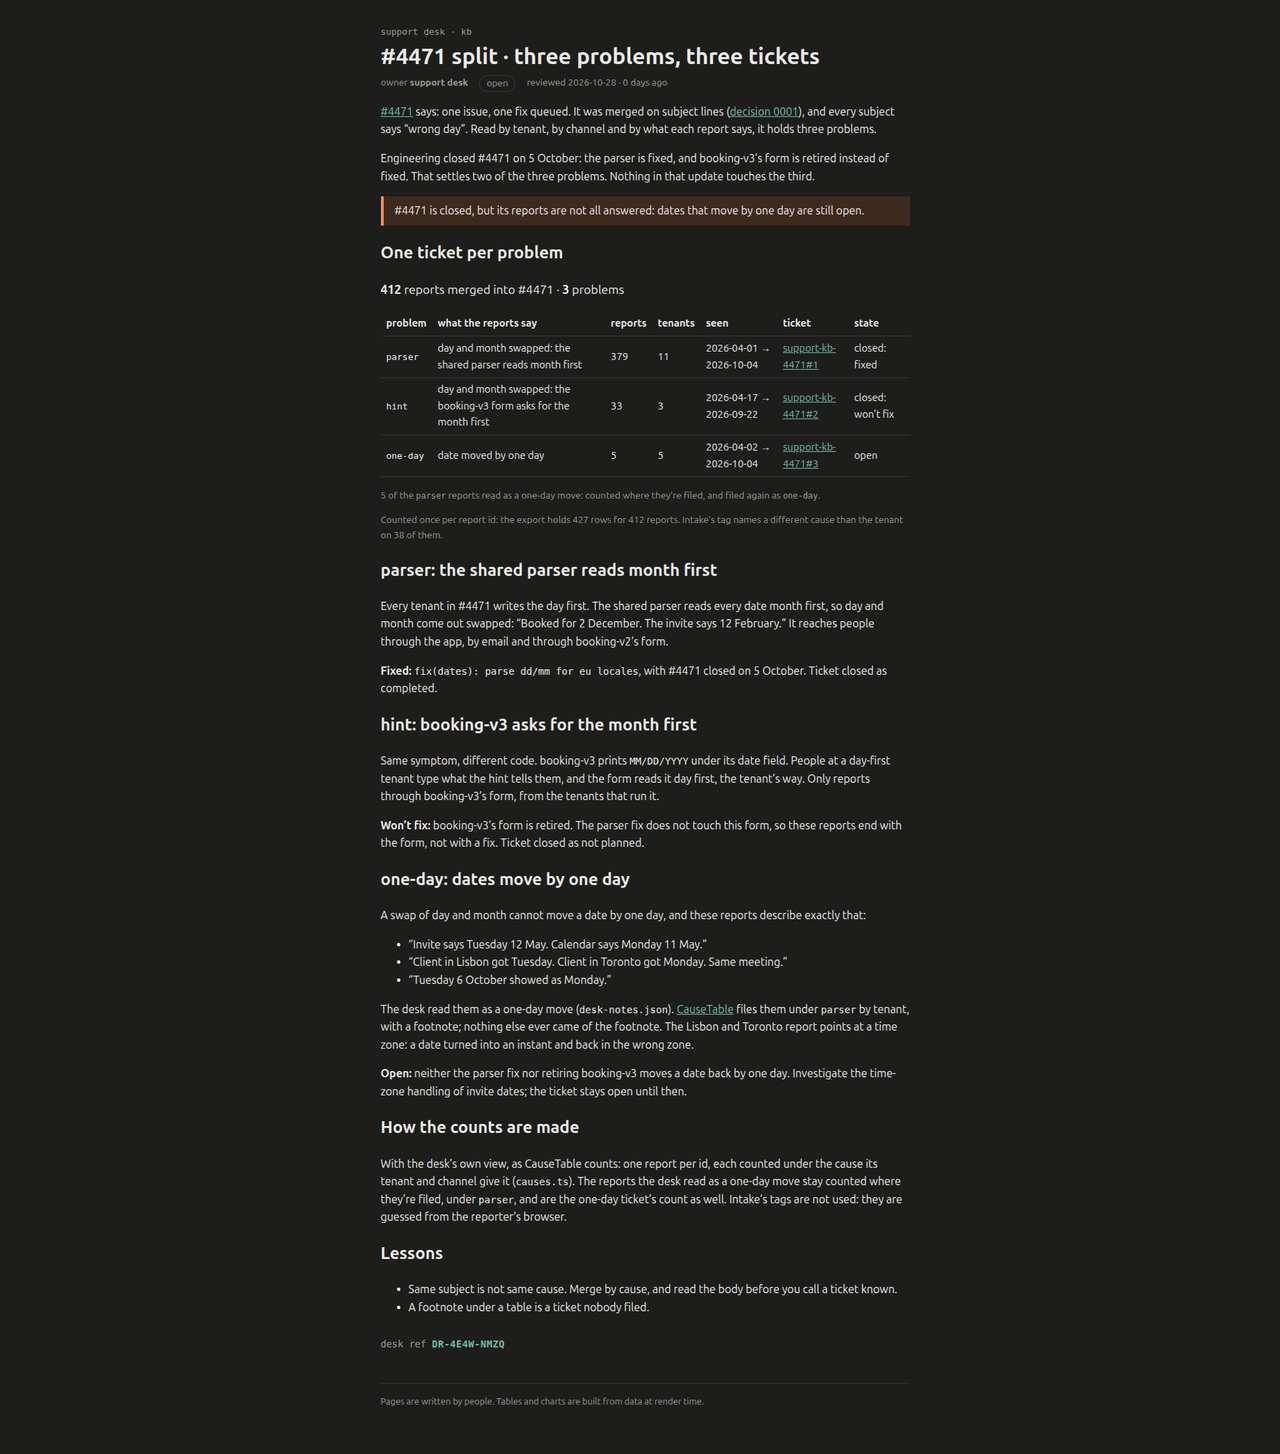
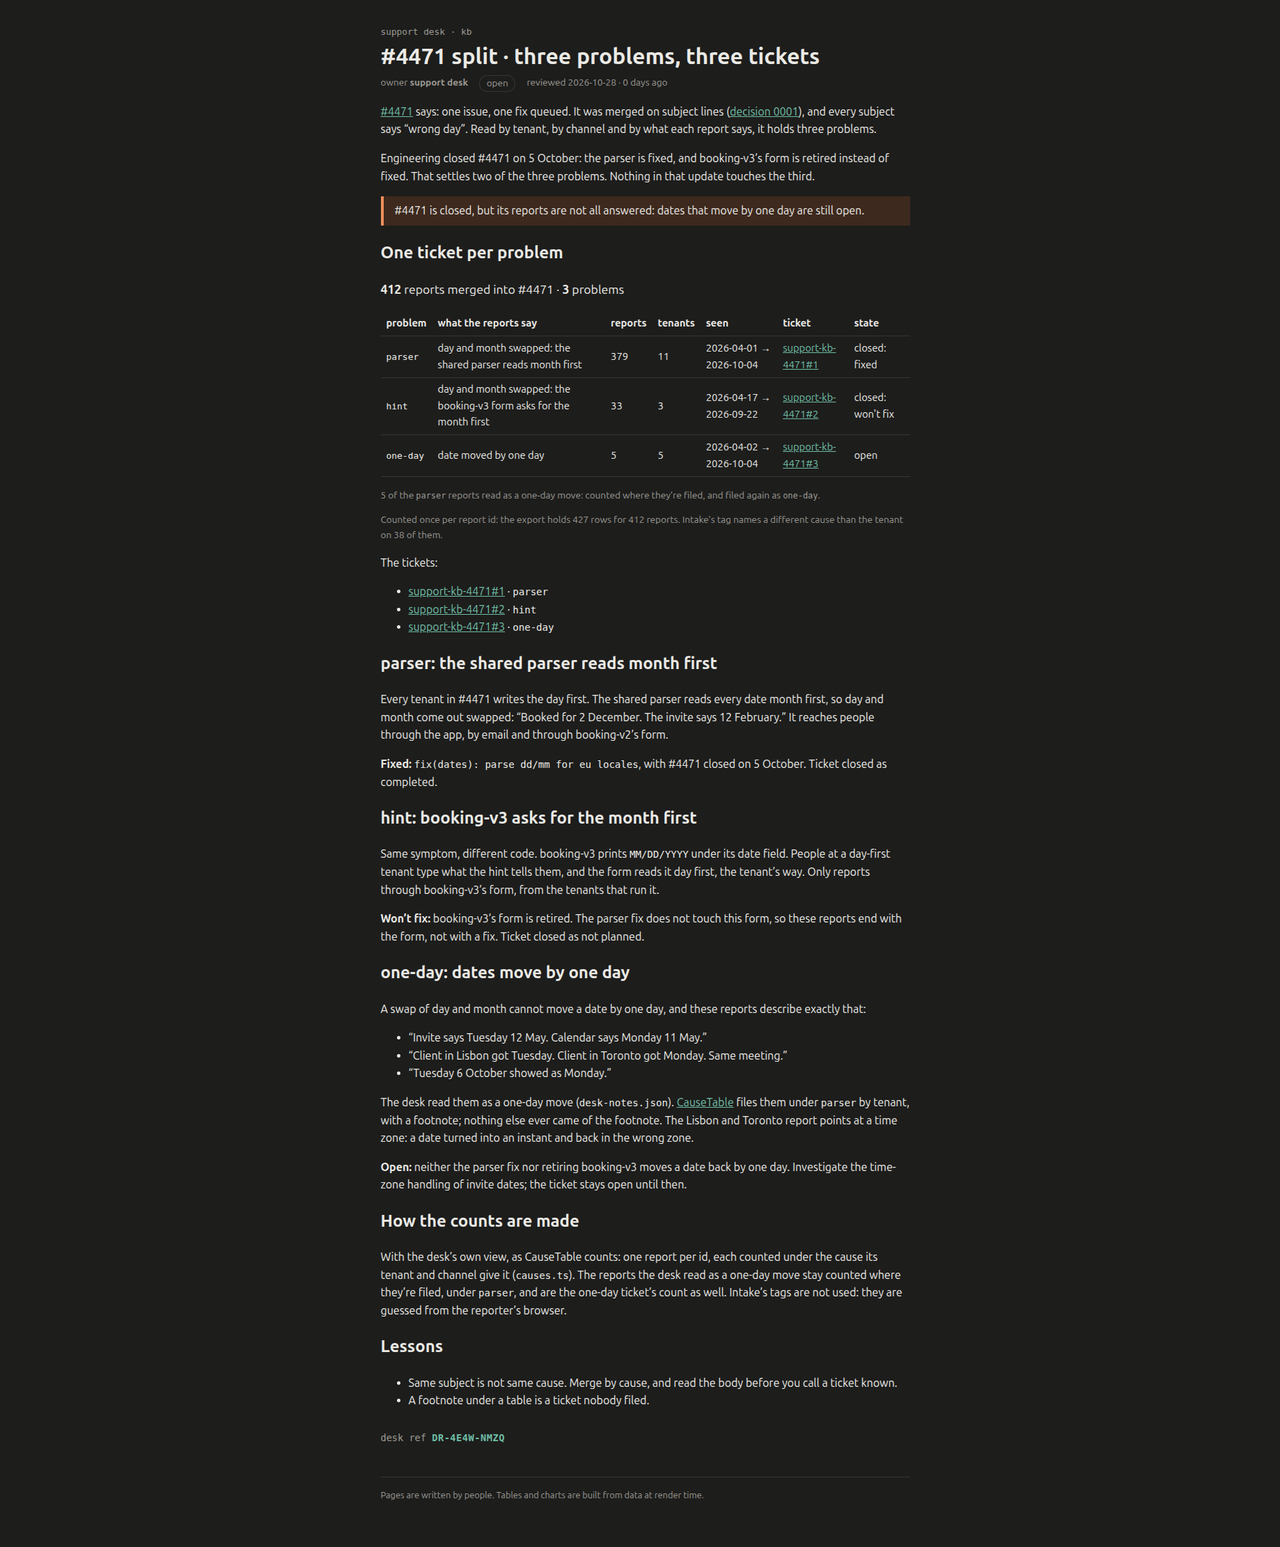
kb: #4471 split page links its three tickets in full

Changed region(s): [[0.2791, 0.0311, 0.7133, 0.9339]]

diff --git a/rendered/site/_app/immutable/chunks/Dhpe4FuT.js b/rendered/site/_app/immutable/chunks/Dhpe4FuT.js
@@ -2,7 +2,7 @@ import{t as e}from"./DK3Fl9T5.js";import{E as t,F as n,H as r,I as i,K as a,L as
   a different cause than the tenant on ${_(R)??``} of them.`)}),S(e,U),f()}var L=`0123456789ABCDEFGHJKMNPQRSTVWXYZ`;function R(e,t){let n=t>>>0;for(let t=0;t<e.length;t++)n^=e.charCodeAt(t),n=Math.imul(n,16777619)>>>0;return n}function z(e){let t=e.trim(),n=R(t,2166136261),r=R(t,2654435769),i=BigInt(n)<<8n|BigInt(r&255),a=``;for(let e=0;e<8;e++)a=L[Number(i&31n)]+a,i>>=5n;return`DR-${a.slice(0,4)}-${a.slice(4)}`}var B=t(`<p class="stamp svelte-1280m42">desk ref <b class="svelte-1280m42"> </b></p>`),V=t(`<p class="stamp missing svelte-1280m42">no desk ref: this page isn't signed (no <code>signature</code> in its frontmatter)</p>`);function H(e,t){p(t,!0);let a=r(()=>t.signature?z(t.signature):null);var c=d(),h=i(c),g=e=>{var t=B(),r=l(n(t)),i=o(r,!0);y(t),s(()=>u(i,_(a))),S(e,t)},v=e=>{var t=V();S(e,t)};m(h,e=>{_(a)?e(g):e(v,-1)}),S(e,c),f()}var U=e({default:()=>Q,metadata:()=>W}),W={layout:`runbook`,title:`#4471 split · three problems, three tickets`,owner:`support desk`,status:`open`,reviewed:`2026-10-28T00:00:00.000Z`,signature:`Wojciech Czaplejewicz (yazon), with Claude Code`},{layout:G,title:K,owner:q,status:J,reviewed:Y,signature:X}=W,Z=t(`<p><a href="/kb/incidents/4471">#4471</a> says: one issue, one fix queued. It was merged on subject lines
 (<a href="/kb/decisions/0001-dedupe-by-subject">decision 0001</a>), and every subject says “wrong day”. Read by
 tenant, by channel and by what each report says, it holds three problems.</p> <p>Engineering closed #4471 on 5 October: the parser is fixed, and booking-v3’s form is retired instead
-of fixed. That settles two of the three problems. Nothing in that update touches the third.</p> <!> <h2>One ticket per problem</h2> <!> <h2>parser: the shared parser reads month first</h2> <p>Every tenant in #4471 writes the day first. The shared parser reads every date month first, so day
+of fixed. That settles two of the three problems. Nothing in that update touches the third.</p> <!> <h2>One ticket per problem</h2> <!> <p>The tickets:</p> <ul><li><a href="https://github.com/yazon/support-kb-4471/issues/1" rel="nofollow">support-kb-4471#1</a> · <code>parser</code></li> <li><a href="https://github.com/yazon/support-kb-4471/issues/2" rel="nofollow">support-kb-4471#2</a> · <code>hint</code></li> <li><a href="https://github.com/yazon/support-kb-4471/issues/3" rel="nofollow">support-kb-4471#3</a> · <code>one-day</code></li></ul> <h2>parser: the shared parser reads month first</h2> <p>Every tenant in #4471 writes the day first. The shared parser reads every date month first, so day
 and month come out swapped: “Booked for 2 December. The invite says 12 February.” It reaches people
 through the app, by email and through booking-v2’s form.</p> <p><strong>Fixed:</strong> <code>fix(dates): parse dd/mm for eu locales</code>, with #4471 closed on 5 October. Ticket closed as
 completed.</p> <h2>hint: booking-v3 asks for the month first</h2> <p>Same symptom, different code. booking-v3 prints <code>MM/DD/YYYY</code> under its date field. People at a
@@ -14,4 +14,4 @@ Toronto report points at a time zone: a date turned into an instant and back in 
 time-zone handling of invite dates; the ticket stays open until then.</p> <h2>How the counts are made</h2> <p>With the desk’s own view, as CauseTable counts: one report per id, each counted under the cause its
 tenant and channel give it (<code>causes.ts</code>). The reports the desk read as a one-day move stay counted
 where they’re filed, under <code>parser</code>, and are the one-day ticket’s count as well. Intake’s tags are not
-used: they are guessed from the reporter’s browser.</p> <h2>Lessons</h2> <ul><li>Same subject is not same cause. Merge by cause, and read the body before you call a ticket known.</li> <li>A footnote under a table is a ticket nobody filed.</li></ul> <!>`,1);function Q(e,t){let n=x(t,[`children`,`$$slots`,`$$events`,`$$legacy`]),r=`https://github.com/yazon/support-kb-4471/issues`,o={parser:`${r}/1`,hint:`${r}/2`,"one-day":`${r}/3`},s={parser:`closed: fixed`,hint:`closed: won't fix`,"one-day":`open`};C(e,b(()=>n,()=>W,{children:(e,t)=>{var n=Z(),r=l(i(n),4);j(r,{kind:`warn`,children:(e,t)=>{a();var n=c(`#4471 is closed, but its reports are not all answered: dates that move by one day are still open.`);S(e,n)},$$slots:{default:!0}});var u=l(r,4);I(u,{ticket:4471,get tickets(){return o},get states(){return s}}),H(l(u,32),{get signature(){return X}}),S(e,n)},$$slots:{default:!0}}))}export{Q as n,U as t};
+used: they are guessed from the reporter’s browser.</p> <h2>Lessons</h2> <ul><li>Same subject is not same cause. Merge by cause, and read the body before you call a ticket known.</li> <li>A footnote under a table is a ticket nobody filed.</li></ul> <!>`,1);function Q(e,t){let n=x(t,[`children`,`$$slots`,`$$events`,`$$legacy`]),r={parser:`https://github.com/yazon/support-kb-4471/issues/1`,hint:`https://github.com/yazon/support-kb-4471/issues/2`,"one-day":`https://github.com/yazon/support-kb-4471/issues/3`},o={parser:`closed: fixed`,hint:`closed: won't fix`,"one-day":`open`};C(e,b(()=>n,()=>W,{children:(e,t)=>{var n=Z(),s=l(i(n),4);j(s,{kind:`warn`,children:(e,t)=>{a();var n=c(`#4471 is closed, but its reports are not all answered: dates that move by one day are still open.`);S(e,n)},$$slots:{default:!0}});var u=l(s,4);I(u,{ticket:4471,get tickets(){return r},get states(){return o}}),H(l(u,36),{get signature(){return X}}),S(e,n)},$$slots:{default:!0}}))}export{Q as n,U as t};

diff --git a/rendered/site/kb/incidents/4471/split.html b/rendered/site/kb/incidents/4471/split.html
@@ -9,11 +9,11 @@
 		<link href="../../../_app/immutable/chunks/B2Ul7l_u.js" rel="modulepreload">
 		<link href="../../../_app/immutable/chunks/BCPXOG7W.js" rel="modulepreload">
 		<link href="../../../_app/immutable/chunks/Dh1V97Jm.js" rel="modulepreload">
-		<link href="../../../_app/immutable/entry/app.BPf66j0r.js" rel="modulepreload">
+		<link href="../../../_app/immutable/entry/app.C8ZodgXy.js" rel="modulepreload">
 		<link href="../../../_app/immutable/nodes/0.C9KfiiPz.js" rel="modulepreload">
 		<link href="../../../_app/immutable/chunks/DK3Fl9T5.js" rel="modulepreload">
-		<link href="../../../_app/immutable/nodes/5.DHk1eGA7.js" rel="modulepreload">
-		<link href="../../../_app/immutable/chunks/DvTG5Ace.js" rel="modulepreload">
+		<link href="../../../_app/immutable/nodes/5.D8P8BH3-.js" rel="modulepreload">
+		<link href="../../../_app/immutable/chunks/Dhpe4FuT.js" rel="modulepreload">
 		<link href="../../../_app/immutable/chunks/BTPwLomz.js" rel="modulepreload">
 		<link href="../../../_app/immutable/chunks/CVBzP17p.js" rel="modulepreload">
 		<link href="../../../_app/immutable/chunks/BIy4WKJS.js" rel="modulepreload">
@@ -27,7 +27,7 @@
 (<a href="/kb/decisions/0001-dedupe-by-subject">decision 0001</a>), and every subject says “wrong day”. Read by
 tenant, by channel and by what each report says, it holds three problems.</p> <p>Engineering closed #4471 on 5 October: the parser is fixed, and booking-v3’s form is retired instead
 of fixed. That settles two of the three problems. Nothing in that update touches the third.</p> <aside class="warn svelte-17bri61"><!---->#4471 is closed, but its reports are not all answered: dates that move by one day are still open.<!----></aside><!----> <h2>One ticket per problem</h2> <p class="sum svelte-1op6c6"><strong>412</strong> reports merged into #4471 · <strong>3</strong> problems</p> <table><thead><tr><th>problem</th><th>what the reports say</th><th>reports</th><th>tenants</th><th>seen</th><th>ticket</th><th>state</th></tr></thead><tbody><!--[--><tr><td><code>parser</code></td><td>day and month swapped: the shared parser reads month first</td><td>379</td><td>11</td><td>2026-04-01 → 2026-10-04</td><td><!--[0--><a href="https://github.com/yazon/support-kb-4471/issues/1">support-kb-4471#1</a><!--]--></td><td>closed: fixed</td></tr><tr><td><code>hint</code></td><td>day and month swapped: the booking-v3 form asks for the month first</td><td>33</td><td>3</td><td>2026-04-17 → 2026-09-22</td><td><!--[0--><a href="https://github.com/yazon/support-kb-4471/issues/2">support-kb-4471#2</a><!--]--></td><td>closed: won't fix</td></tr><tr><td><code>one-day</code></td><td>date moved by one day</td><td>5</td><td>5</td><td>2026-04-02 → 2026-10-04</td><td><!--[0--><a href="https://github.com/yazon/support-kb-4471/issues/3">support-kb-4471#3</a><!--]--></td><td>open</td></tr><!--]--></tbody></table> <!--[--><!--[0--><p class="note svelte-1op6c6">5 of the <code>parser</code> reports read as a one-day move: counted where they're filed, and filed again as <code>one-day</code>.</p><!--]--><!--[-1--><!--]--><!--]--> <p class="note svelte-1op6c6">Counted once per report id: the export holds 427 rows for 412 reports. Intake's tag names
-  a different cause than the tenant on 38 of them.</p><!----> <h2>parser: the shared parser reads month first</h2> <p>Every tenant in #4471 writes the day first. The shared parser reads every date month first, so day
+  a different cause than the tenant on 38 of them.</p><!----> <p>The tickets:</p> <ul><li><a href="https://github.com/yazon/support-kb-4471/issues/1" rel="nofollow">support-kb-4471#1</a> · <code>parser</code></li> <li><a href="https://github.com/yazon/support-kb-4471/issues/2" rel="nofollow">support-kb-4471#2</a> · <code>hint</code></li> <li><a href="https://github.com/yazon/support-kb-4471/issues/3" rel="nofollow">support-kb-4471#3</a> · <code>one-day</code></li></ul> <h2>parser: the shared parser reads month first</h2> <p>Every tenant in #4471 writes the day first. The shared parser reads every date month first, so day
 and month come out swapped: “Booked for 2 December. The invite says 12 February.” It reaches people
 through the app, by email and through booking-v2’s form.</p> <p><strong>Fixed:</strong> <code>fix(dates): parse dd/mm for eu locales</code>, with #4471 closed on 5 October. Ticket closed as
 completed.</p> <h2>hint: booking-v3 asks for the month first</h2> <p>Same symptom, different code. booking-v3 prints <code>MM/DD/YYYY</code> under its date field. People at a
@@ -43,16 +43,16 @@ used: they are guessed from the reporter’s browser.</p> <h2>Lessons</h2> <ul><
 			
 			<script>
 				{
-					__sveltekit_16x06mq = {
+					__sveltekit_1qf4gvz = {
 						base: new URL("../../..", location).pathname.slice(0, -1),
-						version: "1793193586568"
+						version: "1793193885019"
 					};
 
 					const element = document.currentScript.parentElement;
 
 					import("../../../_app/immutable/entry/start.CH5w6lId.js").then(async (kit) => {
-						kit.init(__sveltekit_16x06mq);
-						const app = await import("../../../_app/immutable/entry/app.BPf66j0r.js");
+						kit.init(__sveltekit_1qf4gvz);
+						const app = await import("../../../_app/immutable/entry/app.C8ZodgXy.js");
 						kit.start(app, element, {
 							node_ids: [0, 5],
 							data: [null,null],

diff --git a/rendered/site/_app/immutable/nodes/2.JcVz02un.js b/rendered/site/_app/immutable/nodes/2.JcVz02un.js
@@ -1,0 +1,2 @@
+import{E as e,F as t,I as n,K as r,L as i,N as a,R as o,S as s,U as c,W as l,c as u,d,h as f,i as p,k as m,q as h,r as g,t as _,w as v}from"../chunks/BCPXOG7W.js";import{n as y,r as b,t as x}from"../chunks/BTPwLomz.js";import{t as S}from"../chunks/YX22L_Ud.js";import{t as C}from"../chunks/CgeRC4yK.js";import{t as w}from"../chunks/Dhpe4FuT.js";import{t as T}from"../chunks/BGqJVSDw.js";var E=e(`<tr><td><a> </a></td><td> </td><td> </td><td> </td></tr>`),D=e(`<table><thead><tr><th>page</th><th>owner</th><th>status</th><th>reviewed</th></tr></thead><tbody></tbody></table>`);function O(e,n){l(n,!1);let r=Object.entries(Object.assign({"/src/routes/kb/decisions/0001-dedupe-by-subject/+page.svx":S,"/src/routes/kb/incidents/4471/+page.svx":C,"/src/routes/kb/incidents/4471/split/+page.svx":w,"/src/routes/kb/triage/dedupe/+page.svx":T})).map(([e,t])=>({href:e.replace(`/src/routes`,``).replace(`/+page.svx`,``),...t.metadata})).sort((e,t)=>e.href.localeCompare(t.href));p();var g=D(),_=o(t(g));f(_,5,()=>r,e=>e.href,(e,n)=>{var r=E(),c=t(r),l=t(c),f=i(l,!0);h(c);var p=o(c),g=i(p,!0),_=o(p),x=i(_,!0),S=o(_);let C;var w=i(S,!0);h(r),a((e,t)=>{u(l,`href`,m(n).href),s(f,m(n).title),s(g,m(n).owner),s(x,m(n).status),C=d(S,1,`svelte-tbc1ha`,null,C,{stale:e}),s(w,t)},[()=>y(m(n).reviewed)>180,()=>b(m(n).reviewed)]),v(e,r)}),h(_),h(g),v(e,g),c()}var k={layout:`runbook`,title:`Support knowledge base`,owner:`support desk`,status:`living`,reviewed:`2026-09-28T00:00:00.000Z`},{layout:A,title:j,owner:M,status:N,reviewed:P}=k,F=e(`<p>What the support desk knows, kept next to the code that knows it. One desk, every product: <code>sched-prod</code> (calendar invites for about 300k people) and the rest. When something breaks, the reports land here first.</p> <p>Start with <a href="/kb/triage/dedupe">triage</a> if you are new on the desk.</p> <h2>Pages</h2> <!> <h2>Writing a page</h2> <p>Keep the words here and the logic in <code>src/lib</code>. A number that can be computed should be
+computed by a component, not typed into a paragraph.</p>`,1);function I(e,t){let i=_(t,[`children`,`$$slots`,`$$events`,`$$legacy`]);x(e,g(()=>i,()=>k,{children:(e,t)=>{var i=F();O(o(n(i),6),{}),r(4),v(e,i)},$$slots:{default:!0}}))}export{I as component};

diff --git a/rendered/site/kb.html b/rendered/site/kb.html
@@ -9,16 +9,16 @@
 		<link href="./_app/immutable/chunks/B2Ul7l_u.js" rel="modulepreload">
 		<link href="./_app/immutable/chunks/BCPXOG7W.js" rel="modulepreload">
 		<link href="./_app/immutable/chunks/Dh1V97Jm.js" rel="modulepreload">
-		<link href="./_app/immutable/entry/app.BPf66j0r.js" rel="modulepreload">
+		<link href="./_app/immutable/entry/app.C8ZodgXy.js" rel="modulepreload">
 		<link href="./_app/immutable/nodes/0.C9KfiiPz.js" rel="modulepreload">
 		<link href="./_app/immutable/chunks/DK3Fl9T5.js" rel="modulepreload">
-		<link href="./_app/immutable/nodes/2.lW7AKSYq.js" rel="modulepreload">
+		<link href="./_app/immutable/nodes/2.JcVz02un.js" rel="modulepreload">
 		<link href="./_app/immutable/chunks/BTPwLomz.js" rel="modulepreload">
 		<link href="./_app/immutable/chunks/YX22L_Ud.js" rel="modulepreload">
 		<link href="./_app/immutable/chunks/CgeRC4yK.js" rel="modulepreload">
 		<link href="./_app/immutable/chunks/CVBzP17p.js" rel="modulepreload">
 		<link href="./_app/immutable/chunks/BIy4WKJS.js" rel="modulepreload">
-		<link href="./_app/immutable/chunks/DvTG5Ace.js" rel="modulepreload">
+		<link href="./_app/immutable/chunks/Dhpe4FuT.js" rel="modulepreload">
 		<link href="./_app/immutable/chunks/BGqJVSDw.js" rel="modulepreload">
 		<!--e2jw2j--><!----><title>Support knowledge base · support kb</title>
 		<link href="./_app/immutable/assets/runbook.COyw0cbZ.css" rel="stylesheet">
@@ -34,16 +34,16 @@ computed by a component, not typed into a paragraph.</p><!----></main> <footer c
 			
 			<script>
 				{
-					__sveltekit_16x06mq = {
+					__sveltekit_1qf4gvz = {
 						base: new URL(".", location).pathname.slice(0, -1),
-						version: "1793193586568"
+						version: "1793193885019"
 					};
 
 					const element = document.currentScript.parentElement;
 
 					import("./_app/immutable/entry/start.CH5w6lId.js").then(async (kit) => {
-						kit.init(__sveltekit_16x06mq);
-						const app = await import("./_app/immutable/entry/app.BPf66j0r.js");
+						kit.init(__sveltekit_1qf4gvz);
+						const app = await import("./_app/immutable/entry/app.C8ZodgXy.js");
 						kit.start(app, element, {
 							node_ids: [0, 2],
 							data: [null,null],

diff --git a/rendered/site/_app/immutable/entry/app.C8ZodgXy.js b/rendered/site/_app/immutable/entry/app.C8ZodgXy.js
@@ -1,0 +1,2 @@
+const __vite__mapDeps=(i,m=__vite__mapDeps,d=(m.f||(m.f=["../nodes/0.C9KfiiPz.js","../chunks/DK3Fl9T5.js","../chunks/BCPXOG7W.js","../nodes/1.mOwa9YdW.js","../chunks/Dh1V97Jm.js","./payload.DSmR2FwN.js","../nodes/2.JcVz02un.js","../chunks/BTPwLomz.js","../assets/runbook.COyw0cbZ.css","../chunks/YX22L_Ud.js","../chunks/CgeRC4yK.js","../chunks/CVBzP17p.js","../chunks/BIy4WKJS.js","../assets/Callout.AbLv9dM_.css","../assets/_page.D56XP2ro.css","../chunks/Dhpe4FuT.js","../assets/_page.l10rmzXo.css","../chunks/BGqJVSDw.js","../assets/_page.DO6Yid7X.css","../assets/2.Bt0MwIZg.css","../nodes/3.DRxPfvn3.js","../nodes/4.rt2PfD_4.js","../nodes/5.D8P8BH3-.js","../nodes/6.sFtxrtyV.js"])))=>i.map(i=>d[i]);
+import{t as e}from"../chunks/CRzLMJPS.js";var t={},n=[()=>e(()=>import(`../nodes/0.C9KfiiPz.js`),__vite__mapDeps([0,1,2]),import.meta.url),()=>e(()=>import(`../nodes/1.mOwa9YdW.js`),__vite__mapDeps([3,2,4,5]),import.meta.url),()=>e(()=>import(`../nodes/2.JcVz02un.js`),__vite__mapDeps([6,2,7,8,9,1,10,11,12,13,14,15,16,17,18,19]),import.meta.url),()=>e(()=>import(`../nodes/3.DRxPfvn3.js`),__vite__mapDeps([20,9,1,2,7,8]),import.meta.url),()=>e(()=>import(`../nodes/4.rt2PfD_4.js`),__vite__mapDeps([21,10,1,2,7,8,11,12,13,14]),import.meta.url),()=>e(()=>import(`../nodes/5.D8P8BH3-.js`),__vite__mapDeps([22,15,1,2,7,8,11,12,13,16]),import.meta.url),()=>e(()=>import(`../nodes/6.sFtxrtyV.js`),__vite__mapDeps([23,17,1,2,7,8,12,13,18]),import.meta.url)],r=[],i={"/kb":[2],"/kb/decisions/0001-dedupe-by-subject":[3],"/kb/incidents/4471":[4],"/kb/incidents/4471/split":[5],"/kb/triage/dedupe":[6]},a={handleError:(({kind:e,error:t})=>{e===`unknown`&&console.error(t)}),reroute:(()=>{}),transport:{}},o=Object.fromEntries(Object.entries(a.transport).map(([e,t])=>[e,t.decode])),s=Object.fromEntries(Object.entries(a.transport).map(([e,t])=>[e,t.encode])),c=!1,l=(e,t)=>o[e](t),u=()=>e(()=>import(`../chunks/Bjy-W4x2.js`).then(e=>e.default),[],import.meta.url);export{l as decode,o as decoders,i as dictionary,s as encoders,u as get_error_template,c as hash,a as hooks,t as matchers,n as nodes,r as server_loads};

diff --git a/rendered/site/kb/decisions/0001-dedupe-by-subject.html b/rendered/site/kb/decisions/0001-dedupe-by-subject.html
@@ -9,7 +9,7 @@
 		<link href="../../_app/immutable/chunks/B2Ul7l_u.js" rel="modulepreload">
 		<link href="../../_app/immutable/chunks/BCPXOG7W.js" rel="modulepreload">
 		<link href="../../_app/immutable/chunks/Dh1V97Jm.js" rel="modulepreload">
-		<link href="../../_app/immutable/entry/app.BPf66j0r.js" rel="modulepreload">
+		<link href="../../_app/immutable/entry/app.C8ZodgXy.js" rel="modulepreload">
 		<link href="../../_app/immutable/nodes/0.C9KfiiPz.js" rel="modulepreload">
 		<link href="../../_app/immutable/chunks/DK3Fl9T5.js" rel="modulepreload">
 		<link href="../../_app/immutable/nodes/3.DRxPfvn3.js" rel="modulepreload">
@@ -26,16 +26,16 @@ engineering merges them later.</li></ul><!----></main> <footer class="svelte-e2j
 			
 			<script>
 				{
-					__sveltekit_16x06mq = {
+					__sveltekit_1qf4gvz = {
 						base: new URL("../..", location).pathname.slice(0, -1),
-						version: "1793193586568"
+						version: "1793193885019"
 					};
 
 					const element = document.currentScript.parentElement;
 
 					import("../../_app/immutable/entry/start.CH5w6lId.js").then(async (kit) => {
-						kit.init(__sveltekit_16x06mq);
-						const app = await import("../../_app/immutable/entry/app.BPf66j0r.js");
+						kit.init(__sveltekit_1qf4gvz);
+						const app = await import("../../_app/immutable/entry/app.C8ZodgXy.js");
 						kit.start(app, element, {
 							node_ids: [0, 3],
 							data: [null,null],

diff --git a/rendered/site/kb/incidents/4471.html b/rendered/site/kb/incidents/4471.html
@@ -9,7 +9,7 @@
 		<link href="../../_app/immutable/chunks/B2Ul7l_u.js" rel="modulepreload">
 		<link href="../../_app/immutable/chunks/BCPXOG7W.js" rel="modulepreload">
 		<link href="../../_app/immutable/chunks/Dh1V97Jm.js" rel="modulepreload">
-		<link href="../../_app/immutable/entry/app.BPf66j0r.js" rel="modulepreload">
+		<link href="../../_app/immutable/entry/app.C8ZodgXy.js" rel="modulepreload">
 		<link href="../../_app/immutable/nodes/0.C9KfiiPz.js" rel="modulepreload">
 		<link href="../../_app/immutable/chunks/DK3Fl9T5.js" rel="modulepreload">
 		<link href="../../_app/immutable/nodes/4.rt2PfD_4.js" rel="modulepreload">
@@ -29,16 +29,16 @@ first. The fix is queued.</p> <aside class="note svelte-17bri61"><!---->Known. O
 			
 			<script>
 				{
-					__sveltekit_16x06mq = {
+					__sveltekit_1qf4gvz = {
 						base: new URL("../..", location).pathname.slice(0, -1),
-						version: "1793193586568"
+						version: "1793193885019"
 					};
 
 					const element = document.currentScript.parentElement;
 
 					import("../../_app/immutable/entry/start.CH5w6lId.js").then(async (kit) => {
-						kit.init(__sveltekit_16x06mq);
-						const app = await import("../../_app/immutable/entry/app.BPf66j0r.js");
+						kit.init(__sveltekit_1qf4gvz);
+						const app = await import("../../_app/immutable/entry/app.C8ZodgXy.js");
 						kit.start(app, element, {
 							node_ids: [0, 4],
 							data: [null,null],

diff --git a/rendered/site/kb/triage/dedupe.html b/rendered/site/kb/triage/dedupe.html
@@ -9,7 +9,7 @@
 		<link href="../../_app/immutable/chunks/B2Ul7l_u.js" rel="modulepreload">
 		<link href="../../_app/immutable/chunks/BCPXOG7W.js" rel="modulepreload">
 		<link href="../../_app/immutable/chunks/Dh1V97Jm.js" rel="modulepreload">
-		<link href="../../_app/immutable/entry/app.BPf66j0r.js" rel="modulepreload">
+		<link href="../../_app/immutable/entry/app.C8ZodgXy.js" rel="modulepreload">
 		<link href="../../_app/immutable/nodes/0.C9KfiiPz.js" rel="modulepreload">
 		<link href="../../_app/immutable/chunks/DK3Fl9T5.js" rel="modulepreload">
 		<link href="../../_app/immutable/nodes/6.sFtxrtyV.js" rel="modulepreload">
@@ -29,16 +29,16 @@ anything else.<!----></aside><!----> <h2>Try it</h2> <div class="try svelte-gq0h
 			
 			<script>
 				{
-					__sveltekit_16x06mq = {
+					__sveltekit_1qf4gvz = {
 						base: new URL("../..", location).pathname.slice(0, -1),
-						version: "1793193586568"
+						version: "1793193885019"
 					};
 
 					const element = document.currentScript.parentElement;
 
 					import("../../_app/immutable/entry/start.CH5w6lId.js").then(async (kit) => {
-						kit.init(__sveltekit_16x06mq);
-						const app = await import("../../_app/immutable/entry/app.BPf66j0r.js");
+						kit.init(__sveltekit_1qf4gvz);
+						const app = await import("../../_app/immutable/entry/app.C8ZodgXy.js");
 						kit.start(app, element, {
 							node_ids: [0, 6],
 							data: [null,null],

diff --git a/rendered/site/_app/immutable/nodes/5.D8P8BH3-.js b/rendered/site/_app/immutable/nodes/5.D8P8BH3-.js
@@ -1,0 +1,1 @@
+export{n as component}from"../chunks/Dhpe4FuT.js";
